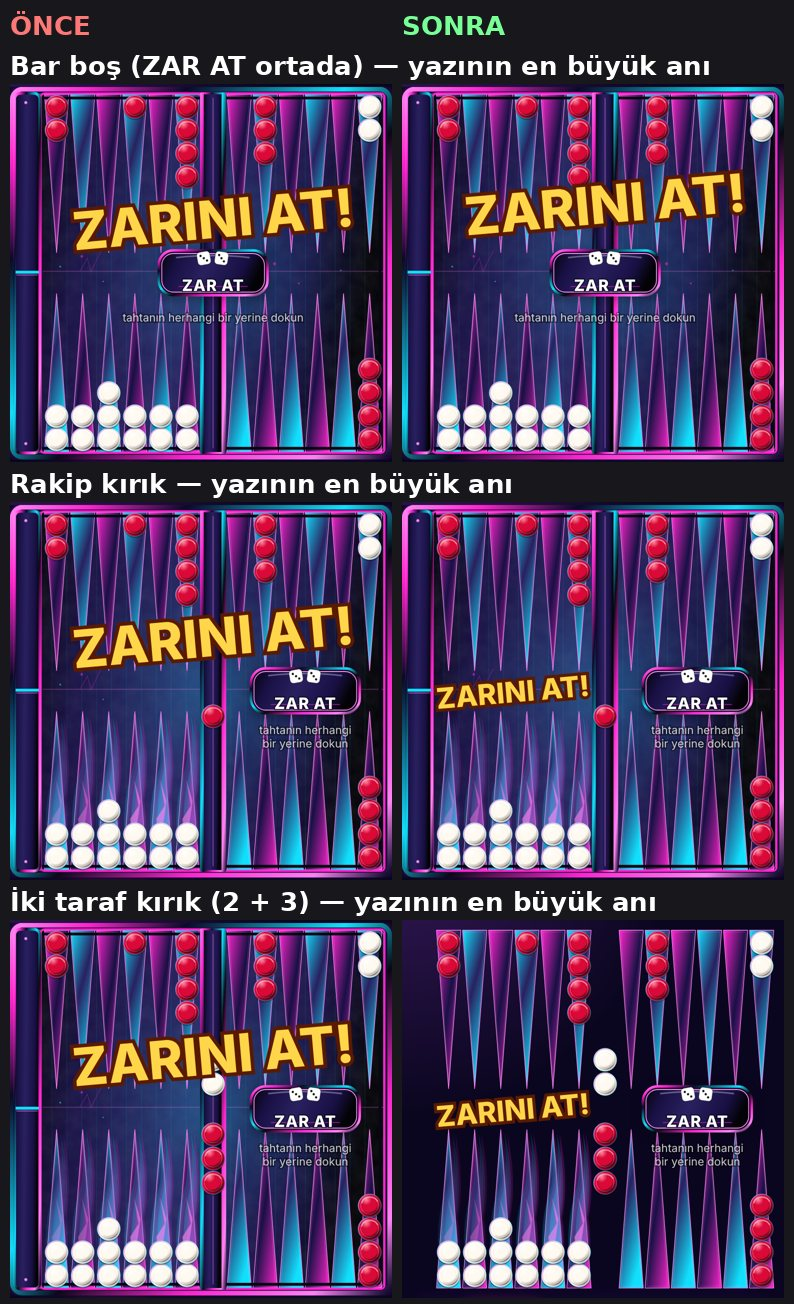
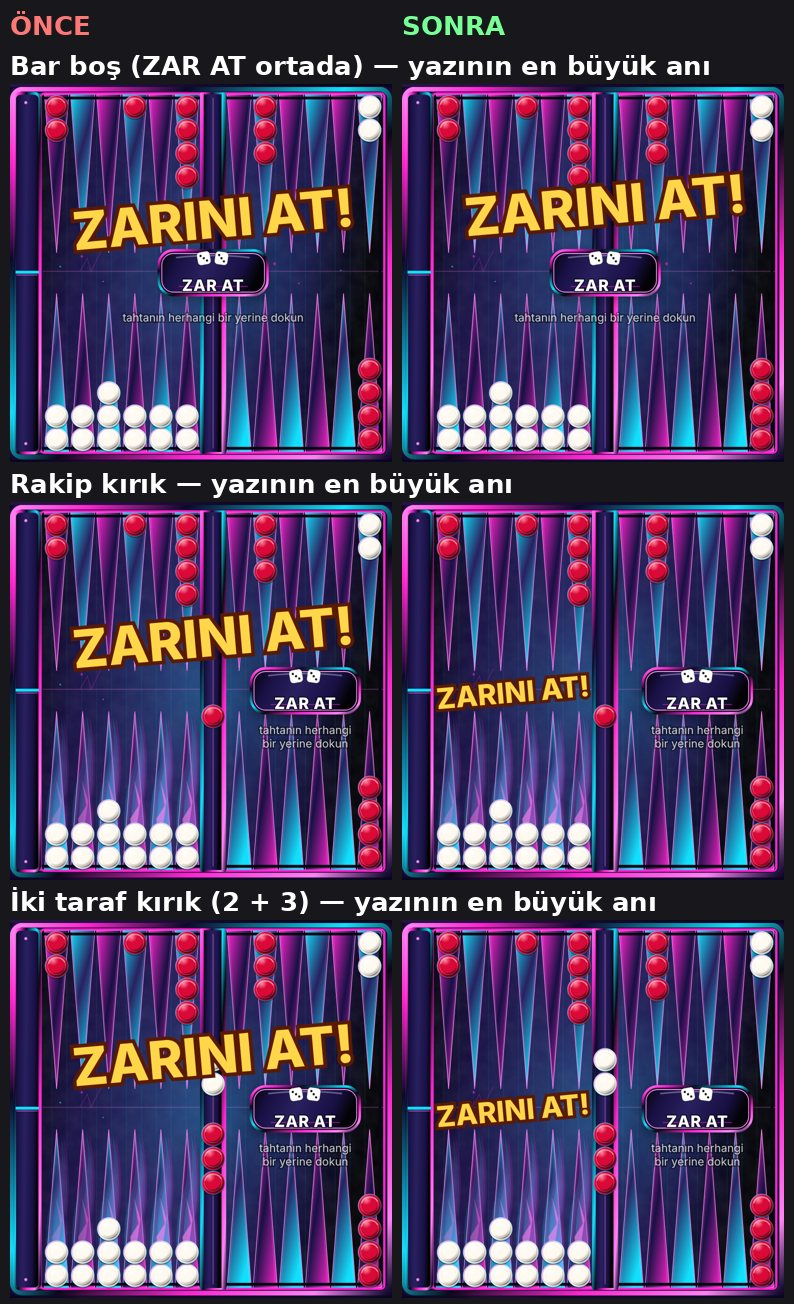
"ZARINI AT!": büyütme her tarayıcıda yazının merkezinden olsun (Safari)
WebKit CI'da yazının en büyük anı tahta dışına/bara kayıyordu: Safari SVG
yazıda transform-box:fill-box + transform-origin:center'ı Chromium gibi
uygulamıyor, büyütme tahtanın köşesinden yapılıyor. Yazı artık (0,0)
noktasında ve bir <g translate> içinde; büyütme kökeni view-box 0 0 yani
yazının merkezi. Konumlar aynı (ortada 218,127; yanda 119,201).

Claude-Session: https://claude.ai/code/session_014VdAYP7YostKHqTFJshCgs

diff --git a/index.html b/index.html
@@ -134,7 +134,7 @@ input{font:inherit;font-size:18px;letter-spacing:.2em;color:var(--fg);background
 .chipb{fill:var(--accent);stroke:#fff;stroke-opacity:.8}
 .chipt{fill:var(--accent-fg);font-family:var(--body);font-weight:700;text-anchor:middle}
 @keyframes pulse{from{opacity:.35}to{opacity:1}}
-#dbt{font-family:var(--display);font-weight:800;font-size:36px;text-anchor:middle;fill:#fff;stroke:#17382c;stroke-width:6;paint-order:stroke;opacity:0;transform-box:fill-box;transform-origin:center;pointer-events:none}
+#dbt{font-family:var(--display);font-weight:800;font-size:36px;text-anchor:middle;fill:#fff;stroke:#17382c;stroke-width:6;paint-order:stroke;opacity:0;transform-box:view-box;transform-origin:0 0;pointer-events:none}
 #dbt.pop{animation:dblpop 1.6s ease-out forwards}
 #dbt.side.pop{animation-name:dblpops} /* yarım tahtada: daha az büyür, bara taşmaz */
 @keyframes dblpops{0%{opacity:0;transform:scale(.5) rotate(-7deg)}14%{opacity:1;transform:scale(1.1) rotate(-5deg)}26%{transform:scale(1) rotate(-4deg)}82%{opacity:1;transform:scale(1.03) rotate(-4deg)}100%{opacity:0;transform:scale(1.06) rotate(-4deg) translateY(-8px)}}
@@ -297,7 +297,7 @@ input{font:inherit;font-size:18px;letter-spacing:.2em;color:var(--fg);background
 <radialGradient id="gB" cx=".35" cy=".3" r=".9"><stop offset="0" stop-color="#b3544a"/><stop offset=".5" stop-color="#6e2722"/><stop offset="1" stop-color="#34100e"/></radialGradient>
 <pattern id="txGrid" width="23" height="23" patternUnits="userSpaceOnUse"><path d="M23 0H0V23" fill="none" stroke="#22e4ff" stroke-opacity=".14" stroke-width="1"/></pattern><pattern id="txSun" width="14" height="14" patternUnits="userSpaceOnUse" patternTransform="rotate(45)"><rect width="7" height="14" fill="#ffd2ad" opacity=".35"/></pattern><pattern id="txFelt" width="4" height="4" patternUnits="userSpaceOnUse"><path d="M0 4L4 0" stroke="#000" stroke-opacity=".14" stroke-width=".6"/><path d="M0 0L4 4" stroke="#fff" stroke-opacity=".04" stroke-width=".6"/></pattern><pattern id="txDots" width="9" height="9" patternUnits="userSpaceOnUse"><circle cx="4.5" cy="4.5" r="1.7" fill="#fff" fill-opacity=".16"/></pattern>
 
-<g id="thdefs"></g></defs><g id="bg"></g><g id="mvl" pointer-events="none"></g><g id="opl" pointer-events="none"></g><g id="dl" pointer-events="none"></g><g id="tb" pointer-events="none"><rect id="tbg" x="205" y="403" width="0" height="7" rx="3.5" fill="#ff9b2f" opacity=".95"/><rect id="tbc" x="205" y="404.5" width="0" height="4" rx="2" fill="#ff9b2f"/></g><g id="tags" pointer-events="none"></g><g id="dbg" pointer-events="none"><text id="dbt" x="218" y="142"></text></g></svg><div id="fl"></div></div>
+<g id="thdefs"></g></defs><g id="bg"></g><g id="mvl" pointer-events="none"></g><g id="opl" pointer-events="none"></g><g id="dl" pointer-events="none"></g><g id="tb" pointer-events="none"><rect id="tbg" x="205" y="403" width="0" height="7" rx="3.5" fill="#ff9b2f" opacity=".95"/><rect id="tbc" x="205" y="404.5" width="0" height="4" rx="2" fill="#ff9b2f"/></g><g id="tags" pointer-events="none"></g><g id="dbg" pointer-events="none"><g id="dbtG" transform="translate(218 127)"><text id="dbt" x="0" y="0" dominant-baseline="central"></text></g></g></svg><div id="fl"></div></div>
     <div id="undoRow"><button id="bSnd" data-ia="sndT" aria-label="Ses">🔊</button><span id="pipc" data-it="pipTitle" title="Toplamaya kalan mesafe (pul sayımı)"></span><span class="cnt" id="undoCnt">3x</span><button id="bUndo">Geri Al</button></div>
     <div id="chat">
       <div id="chatHead"><button type="button" id="bFold" data-ia="foldT" aria-label="Sohbeti daralt" aria-expanded="true" aria-controls="chat">▾</button>
@@ -1867,7 +1867,9 @@ function showBanner(delay,text,gold){
   dblT=setTimeout(()=>{
     // barda kırık pul varsa yazı sol yarının ortasındaki boş şeride gider (ZAR AT düğmesi o zaman sağ yarıda): bardaki pullar kapanmaz
     const side=!!(G.st&&G.st.bar&&(G.st.bar[0]+G.st.bar[1])>0),maxW=side?150:330;
-    t.setAttribute('x',side?119:218);t.setAttribute('y',side?211:142); /* ortada: en büyüdüğü anda da ZAR AT düğmesine değmesin */t.classList.toggle('side',side);
+    // yazı (0,0) noktasında, konumu kapsayan grubun translate'i verir: büyütme her tarayıcıda yazının merkezinden olur
+    // (Safari SVG yazıda transform-box:fill-box'ı Chromium gibi uygulamıyor). Ortada: en büyüdüğü anda da ZAR AT düğmesine değmesin
+    const g=$('#dbtG');if(g)g.setAttribute('transform',side?'translate(119 201)':'translate(218 127)');t.classList.toggle('side',side);
     t.classList.toggle('gold',!!gold);t.textContent=text;t.style.fontSize='';try{const w=t.getComputedTextLength();if(w>maxW){const fs=parseFloat(getComputedStyle(t).fontSize)||36;t.style.fontSize=(fs*maxW/w).toFixed(1)+'px';}}catch(e){}void t.getBoundingClientRect();t.classList.add('pop');},delay);
 }
 function showDbl(delay){if(!JOKE)return;const hk=G.all[0]===6,D=DBLS();showBanner(delay,hk?i18('hakko'):D[(G.seed>>>0)%D.length],hk);}
